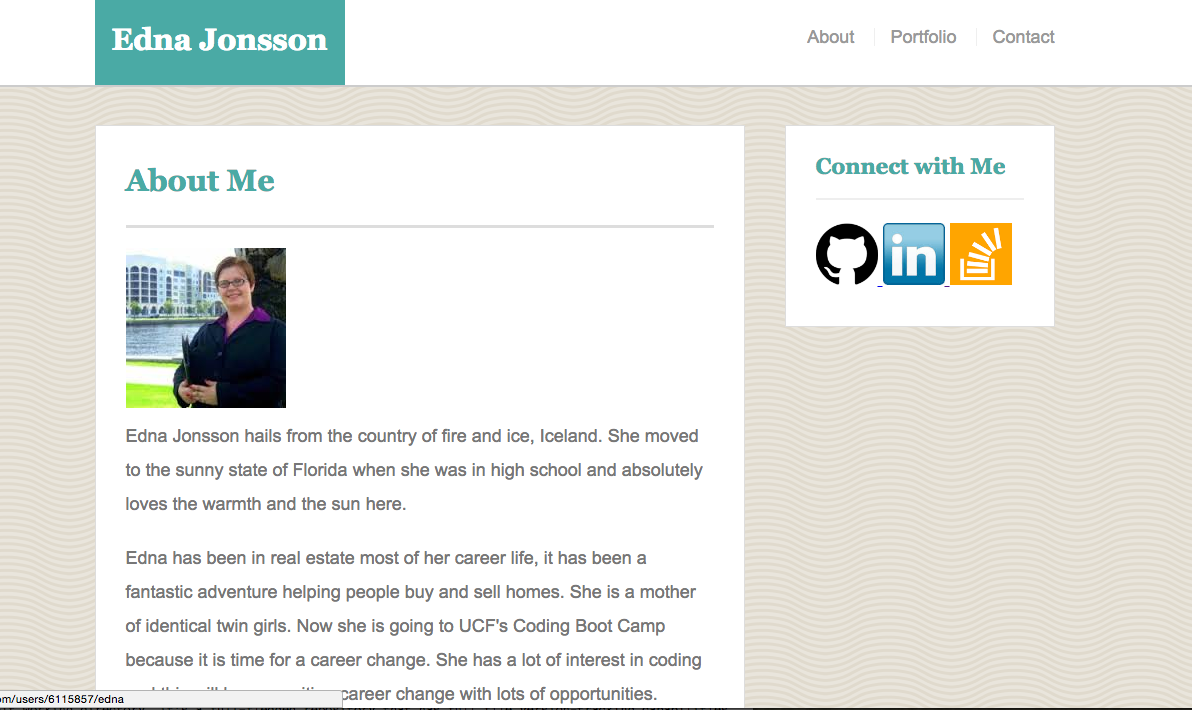
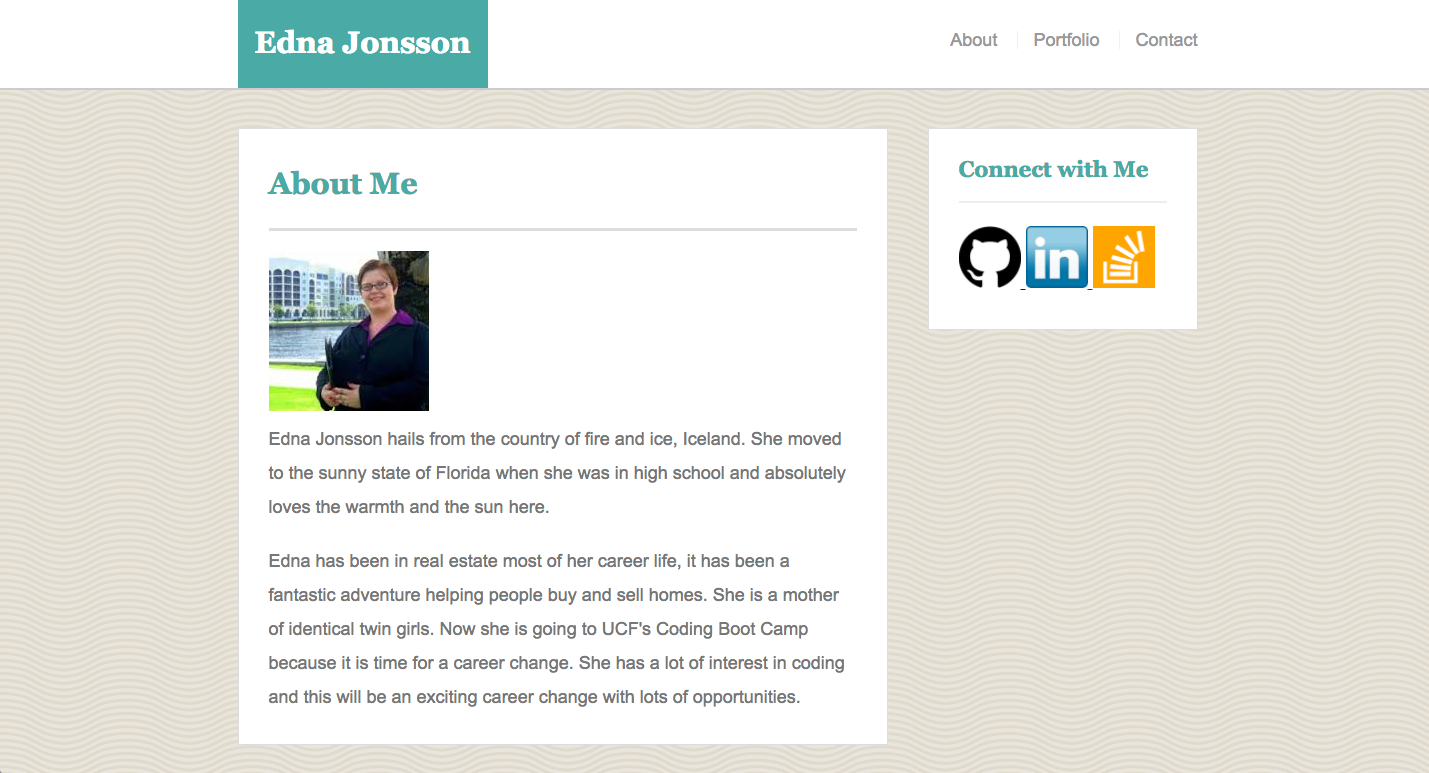
Updated images, changed to a blue color and fixed structure of html/css

Changed region(s): [[0.0, 0.1549, 1.0, 1.0], [0.0, 0.0, 1.0, 0.1239], [0.6518, 0.031, 0.9002, 0.062]]

diff --git a/index.html b/index.html
@@ -66,22 +66,22 @@
       <div class="row">
         <div class="col-lg-12 text-center" data-parallax="scroll">
           <h2>The lady behind the magic!</h2>
-          <img src="img/ucfGrad.jpg" alt="Edna Jonsson" class="img-circle img-responsive center">
-          <p class="lead">Edna Jonsson hails from the country of fire and ice, Iceland. She moved to the sunny state of Florida when she was in high school and absolutely loves the warmth and the sun here.
-            <br>
-            <br> Edna has been in real estate most of her career life, it has been a fantastic adventure helping people buy and sell homes. She is a mother of identical twin girls. In 2016 she began a career change and enrolled in the inaugural class of UCF's Coding Boot Camp, she graduated from that boot camp on September 28th, 2016. She has a lot of interest in coding and this will be an exciting career change with lots of opportunities.
-            <br>
-            <br> She has been previously employed with her father's company <a target="_blank" href="http://thevikingteam.com/">The Viking Team, Realty</a>.</p>
-          <!--              <img src="img/edna.jpg" alt="Edna Jonsson" class="img-circle img-responsive center"> -->
+            <img src="img/ednaj.jpg" alt="Edna Jonsson" class="img-circle img-responsive img-about">
+
+              <p class="lead">Edna Jonsson hails from the country of fire and ice, Iceland. She moved to the sunny state of Florida when she was in high school and absolutely loves the warmth and the sun here.
+              <br>
+              <br> Edna has been in real estate most of her career life, it has been a fantastic adventure helping people buy and sell homes. She is a mother of identical twin girls. In 2016 she began a career change and enrolled in the inaugural class of UCF's Coding Boot Camp, she graduated from that boot camp on September 28th, 2016. She has a lot of interest in coding and this will be an exciting career change with lots of opportunities.
+              <br>
+              <br> She has been previously employed with her father's company <a target="_blank" href="http://thevikingteam.com/">The Viking Team, Realty</a>.</p>
+          <img src="img/ucfGrad.jpg" alt="Edna Jonsson" class="img-circle img-responsive img-about">
         </div>
       </div>
       <!-- /.row -->
     </div>
     <!-- /.container -->
   </section>
-  <!-- Services -->
-  <!-- The circle icons use Font Awesome's stacked icon classes. For more information, visit http://fontawesome.io/examples/ -->
-  <section id="skillset" class="services bg-primary">
+  <!-- Experienced in -->
+  <section id="experienced" class="experienced bg-primary">
     <div class="container">
       <div class="row">
         <div class="col-lg-12 text-center">
@@ -109,8 +109,6 @@
             <i class="devicon-github-plain"></i>
             <i class="devicon-grunt-line"></i>
             <i class="devicon-trello-plain"></i>
-            <!--                     <a href="#" class="btn btn-lg btn-light">Click Me!</a>
-                    <a href="#" class="btn btn-lg btn-dark">Look at Me!</a> -->
           </div>
         </div>
       </div>
@@ -135,6 +133,10 @@
                 <a href="http://young-woodland-81264.herokuapp.com">
                   <img class="img-portfolio img-responsive" src="img/basicPortfolio.png">
                 </a>
+                  <div class="overlay">
+                    <h3 class="reference-title">Basic Portfolio</h3> 
+                    <p>Used HTML & CSS to create a basic portfolio</p>
+                  </div>
               </div>
             </div>
             <div class="col-md-6">
@@ -221,42 +223,12 @@
         <!-- /.col-lg-10 -->
       </div>
       <!-- /.row -->
-      <!-- <div id="carousel-portfolio" class="carousel slide" data-ride="carousel">
-  <ol class="carousel-indicators">
-    <li data-target="#carousel-example-generic" data-slide-to="0" class="active"></li>
-    <li data-target="#carousel-example-generic" data-slide-to="1"></li>
-    <li data-target="#carousel-example-generic" data-slide-to="2"></li>
-  </ol>
-  <div class="carousel-inner" role="listbox">
-    <div class="carousel-item active">
-      <img src="img/FriendsTriviaGame.png" alt="First slide">
-    </div>
-    <div class="carousel-item">
-      <img src="img/hangmanGame.png" alt="Second slide">
-    </div>
-    <div class="carousel-item">
-      <img src="img/friendFinder.png" alt="Third slide">
-        <div class="carousel-caption">
-    <h3>Mate</h3>
-    <p>An application that helps you find a compatible mate</p>
-  </div>
-    </div>
-  </div>
-  <a class="left carousel-control" href="#carousel-example-generic" role="button" data-slide="prev">
-    <span class="icon-prev" aria-hidden="true"></span>
-    <span class="sr-only">Previous</span>
-  </a>
-  <a class="right carousel-control" href="#carousel-example-generic" role="button" data-slide="next">
-    <span class="icon-next" aria-hidden="true"></span>
-    <span class="sr-only">Next</span>
-  </a>
-</div> -->
     </div>
     <!-- /.container -->
   </section>
   <!-- Call to Action -->
-  <section id="contact"></section>
-  <aside class="call-to-action bg-primary">
+  <section id="skillset" class="skillset bg-primary">  
+  <aside class="bg-primary">
     <div class="container">
       <div class="row text-center">
         <div class="col-lg-10 col-lg-offset-1">
@@ -324,7 +296,9 @@
     </div>
     <!-- /.container -->
   </aside>
-  <div class="col-lg-10 col-lg-offset-1 container">
+  </section>
+<!--   Detailed skills -->
+  <div class="col-lg-10 col-lg-offset-1 in-depth container">
     <div class="col-md-6">
       <h3>Skills broken down</h3>
       <p>While I do feel confident in the skills that I have aquired during my time at the UCF Coding Boot Camp and after, I realize that I have a lot left to learn. I have given my estimate of how well I know the following technologies. This estimate is based on how often I feel like I have to Google something. <strong> The most important thing to know is that I will work hard, I will continue to learn, I will continue to practice my skill and work on becoming better. </strong> That's all I can do, is improve. I really do enjoy coding, I love to solve the challenges that come with creating code and finding a good way and then a better way to do something. I focus on two things when I'm coding, first making it work and then making it look good. If I can accomplish those two things, I feel like I am making a great product.
@@ -359,7 +333,9 @@
       </div>
     </div>
   </div>
-  <!-- Footer -->
+    <section id="contact"></section>
+
+  <!-- Footer -->  
   <footer>
     <div class="container">
       <div class="row">

diff --git a/css/style.css b/css/style.css
@@ -14,6 +14,12 @@ body {
   font-family: "Source Sans Pro", "Helvetica Neue", Helvetica, Arial, sans-serif;
 }
 
+/*Background */
+
+.bg-primary {
+  background-color: #2DB6C8;
+}
+
 .text-vertical-center {
   display: table-cell;
   text-align: center;
@@ -28,22 +34,11 @@ body {
 }
 
 
-/*Background */
-
-.bg-primary {
-  background-color: #986DBD;
-}
-
-.center {
-  margin: 0 auto;
-}
-
-
 /* Custom Button Styles */
 
 .btn-dark {
   border-radius: 0;
-  color: #986DBD;
+  color: #2DB6C8;
   background-color: rgba(0, 0, 0, 0.4);
 }
 
@@ -182,13 +177,19 @@ hr.small {
   padding: 50px 0;
 }
 
-/* Services */
+.img-about {
+  margin: 0 auto;
+  width: 400px;
+  height: auto;
+}
 
-.services {
+/* Skillset */
+
+.skillset {
   padding: 50px 0;
 }
 
-.service-item {
+.skillset-item {
   margin-bottom: 30px;
 }
 
@@ -219,26 +220,41 @@ hr.small {
 
 .img-portfolio {
   margin: 5 auto;
-  width: 90%;
+  width: 400px;
+  height: auto;
   border: 0 none;
   /*    opacity: .8;*/
 }
 
 .img-portfolio:hover {
-  /*    opacity: 0.8;*/
+  opacity: 1;
+  -webkit-transition: .3s ease-in-out;
+  transition: .3s ease-in-out;
 }
+/*.img-portfolio figure:hover img {
+  opacity: .5;
+}*/
 
 
-/* Call to Action */
+/* Experienced in */
 
-.call-to-action {
+.experienced {
   padding: 50px 0;
 }
 
-.call-to-action .btn {
+.experienced .btn {
   margin: 10px;
 }
 
+/*In Depth Skills*/
+
+.in-depth {
+  padding: 50px 0;
+}
+
+.in-depth .btn {
+  margin: 10px;
+}
 
 /* Makes Devicons bigger */
 
@@ -252,7 +268,7 @@ hr.small {
 
 /*Progress bar*/
 .progress-bar {
-  background-color: #986DBD;
+  background-color: #2DB6C8;
 }
 .progress {
   height: 30px;
@@ -262,10 +278,10 @@ hr.small {
 
 /*Favicons, text primary makes the text purple, fa-fw targets the icon background*/
 .text-primary {
-  color: #986DBD;
+  color: #2DB6C8;
 }
 .fa-fw {
-  color: #986DBD;
+  color: #2DB6C8;
 }
 
 /* Footer */
